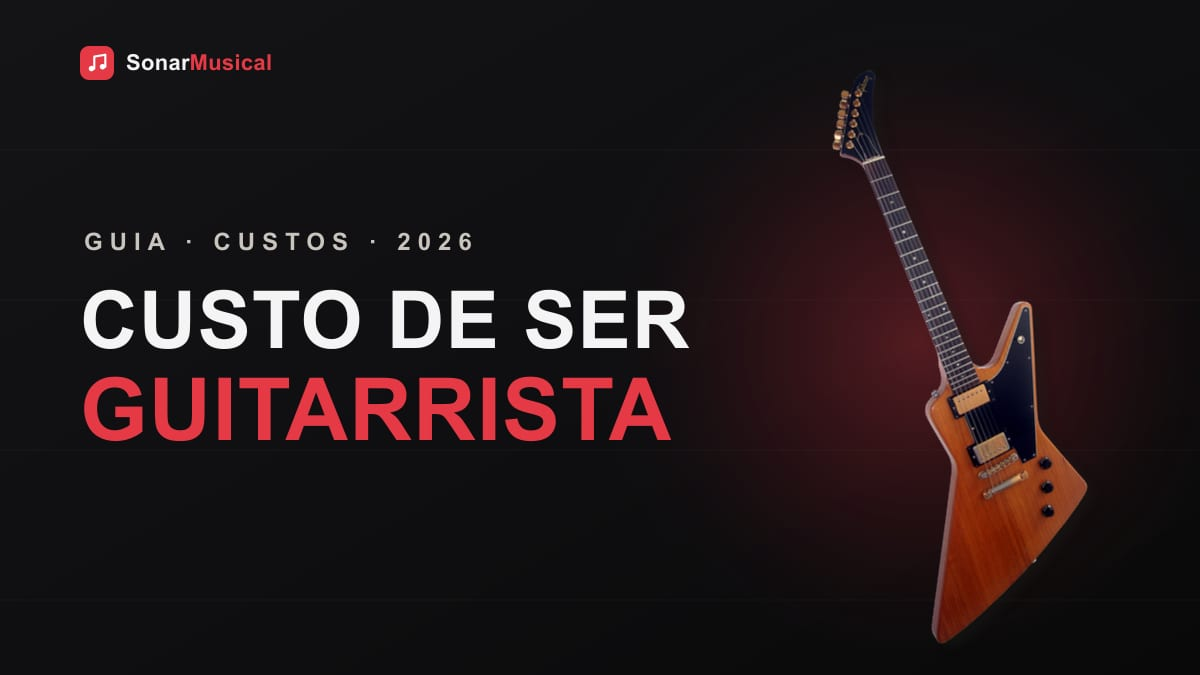
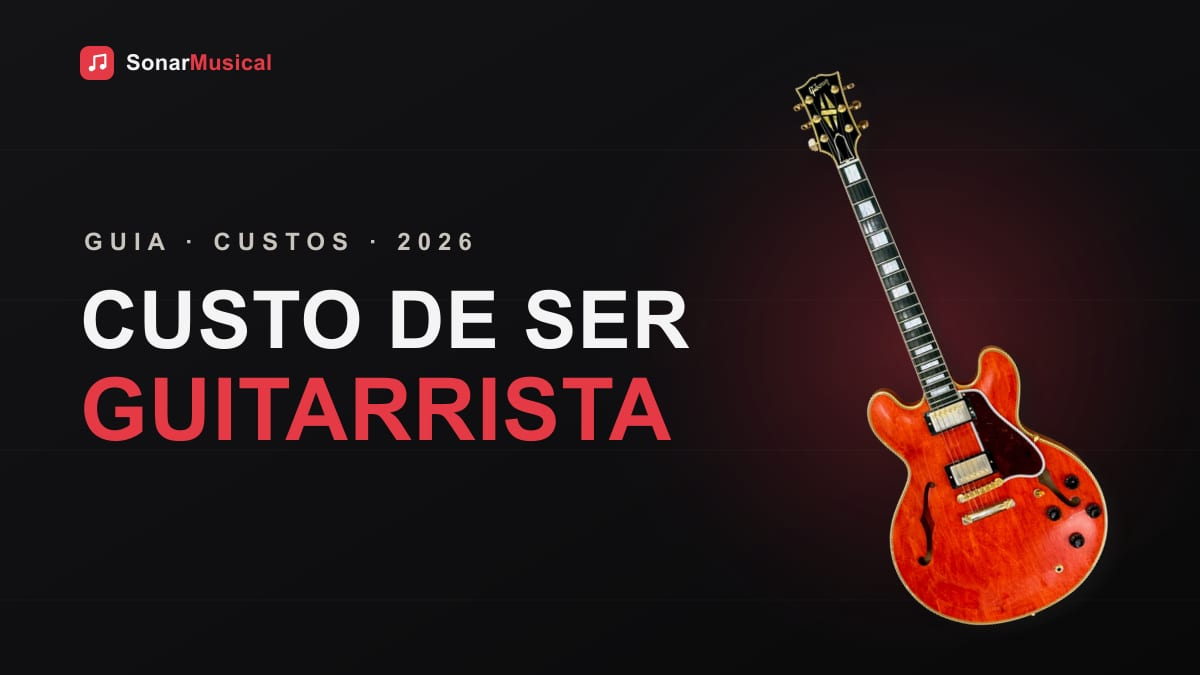
content: 3 guias (Explorer, Seizi, Memphis) da KW research + capas com foto real; realoca capa de quanto-custa-ser

Changed region(s): [[0.6475, 0.0933, 0.925, 0.9644]]

diff --git a/src/data/creditos.ts b/src/data/creditos.ts
@@ -375,12 +375,36 @@ export const CREDITOS_CAPAS: CreditoCapa[] = [
     fonteUrl: "https://commons.wikimedia.org/wiki/File:Ibanez_Artist_noBG.png",
   },
   {
-    descricao: "Gibson Explorer (quanto custa ser guitarrista)",
+    descricao: "Gibson Explorer (guia da Explorer)",
     autor: "Guitarpimp",
     autorUrl: "https://commons.wikimedia.org/wiki/User:Guitarpimp",
     licenca: "CC BY-SA 3.0",
     licencaUrl: "https://creativecommons.org/licenses/by-sa/3.0/deed.pt",
     fonteUrl: "https://commons.wikimedia.org/wiki/File:Gibson-Explorer_noBG.png",
+  },
+  {
+    descricao: "Gibson ES-355 (quanto custa ser guitarrista)",
+    autor: "Auge=mit",
+    autorUrl: "https://commons.wikimedia.org/wiki/User:Auge%3Dmit",
+    licenca: "CC BY-SA 4.0",
+    licencaUrl: "https://creativecommons.org/licenses/by-sa/4.0/deed.pt",
+    fonteUrl: "https://commons.wikimedia.org/wiki/File:Gibson_ES_355_59_GCS_AvR.png",
+  },
+  {
+    descricao: "Epiphone Les Paul Standard 1960 (guia da Seizi)",
+    autor: "muzyczny.pl",
+    autorUrl: "http://muzyczny.pl",
+    licenca: "CC BY-SA 4.0",
+    licencaUrl: "https://creativecommons.org/licenses/by-sa/4.0/deed.pt",
+    fonteUrl: "https://commons.wikimedia.org/wiki/File:Gitara_elektryczna_Les_Paul_Standard_1960_HS_Limited_Edition_firmy_Epiphone.jpg",
+  },
+  {
+    descricao: "Peavey Generation EXP Telecaster (guia da Memphis)",
+    autor: "Auge=mit",
+    autorUrl: "https://commons.wikimedia.org/wiki/User:Auge%3Dmit",
+    licenca: "CC BY-SA 3.0",
+    licencaUrl: "https://creativecommons.org/licenses/by-sa/3.0/deed.pt",
+    fonteUrl: "https://commons.wikimedia.org/wiki/File:Peavey_Generation_EXP_Telecaster_Custom_2007.jpg",
   },
   {
     descricao: "Gibson ES-350T de Chuck Berry (quem inventou a guitarra)",
